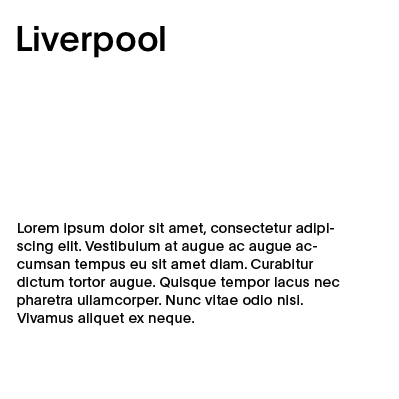
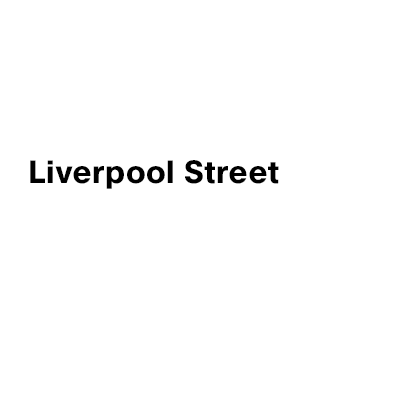
Changed labels and optimized content drawing.

Changed region(s): [[0.0301, 0.5414, 0.8722, 0.812], [0.0602, 0.391, 0.6917, 0.4812], [0.0301, 0.0602, 0.4211, 0.1504]]

diff --git a/cove/src/Content.cpp b/cove/src/Content.cpp
@@ -386,27 +386,22 @@ void Content::draw()
     if (project == 0) {
         // draws text content (text is currently an image)
         ofSetRectMode(OF_RECTMODE_CENTER);
-        if (img[0].isAllocated())
-        {
+        if (item == 0) {
             ofSetColor(255);
             captionTextImage[0].draw(ofGetWidth()/2, ofGetHeight()/2, captionTextImage[0].getWidth() * scale[0], captionTextImage[0].getHeight() * scale[0]);
             img[0].draw(ofGetWidth()/2, ofGetHeight()/2, img[0].getWidth() * scale[0], img[0].getHeight() * scale[0]);
             ofSetColor(255, 255, 255, titleAndCaptionAlpha[0]);
             titleTextImage[0].draw(ofGetWidth()/2, ofGetHeight()/2, titleTextImage[0].getWidth() * scale[0], titleTextImage[0].getHeight() * scale[0]);
-        }
-        
-        // draws image contentw
-        if (img[1].isAllocated())
-        {
+        } else if (item == 1) {
+            // draws image contentw
             ofSetColor(255);
             captionTextImage[1].draw(ofGetWidth()/2, ofGetHeight()/2, captionTextImage[1].getWidth() * scale[1], captionTextImage[1].getHeight() * scale[1]);
             img[1].draw(ofGetWidth()/2, ofGetHeight()/2, img[1].getWidth() * scale[1], img[1].getHeight() * scale[1]);
             ofSetColor(255, 255, 255, titleAndCaptionAlpha[1]);
             titleTextImage[1].draw(ofGetWidth()/2, ofGetHeight()/2, titleTextImage[1].getWidth() * scale[1], titleTextImage[1].getHeight() * scale[1]);
 
-        }
-    
-        // draws video content
+        } else if(item == 2) {
+            // draws video content
             for (int i = 0; i < 5; i++)
             {
                 // hs1 project video content
@@ -421,27 +416,15 @@ void Content::draw()
                     playhead.draw(ofGetWidth()/2, ofGetHeight()/2 + vid[0][i].getHeight()/2 + 5, vid[0][i].getWidth() * scale[2], 10 * scale[2], percentDone);
                     
                 }
-                
-                // crossrail project video content
-                if (vid[1][i].isPlaying())
-                {
-                    ofSetColor(255);
-                    captionTextImage[2].draw(ofGetWidth()/2, ofGetHeight()/2, captionTextImage[2].getWidth() * scale[2], captionTextImage[2].getHeight() * scale[2]);
-                    vid[1][i].draw(ofGetWidth()/2, ofGetHeight()/2, vid[1][i].getWidth() * scale[2], vid[1][i].getHeight() * scale[2]);
-                    ofSetColor(255, 255, 255, titleAndCaptionAlpha[2]);
-                    titleTextImage[2].draw(ofGetWidth()/2, ofGetHeight()/2, titleTextImage[2].getWidth() * scale[2], titleTextImage[2].getHeight() * scale[2]);
-                    float percentDone = vid[1][i].getPosition();
-                    playhead.draw(ofGetWidth()/2, ofGetHeight()/2 + vid[1][i].getHeight()/2 + 5, vid[1][i].getWidth() * scale[2], 10 * scale[2], percentDone);
-                }
             }
-        
+        } else if(item == 3) {
             ofPushStyle();
             ofSetColor(255);
             captionTextImage[3].draw(ofGetWidth()/2, ofGetHeight()/2, captionTextImage[3].getWidth() * scale[3], captionTextImage[3].getHeight() * scale[3]);
             ofSetColor(255, 255, 255, titleAndCaptionAlpha[3]);
             titleTextImage[3].draw(ofGetWidth()/2, ofGetHeight()/2, titleTextImage[3].getWidth() * scale[3], titleTextImage[3].getHeight() * scale[3]);
             ofPopStyle();
-        
+            
             // model drawing
             // rotate on y axis
             cam.pan(camPam);
@@ -457,42 +440,38 @@ void Content::draw()
             ofDisableLighting();
             cam.end();
             ofDisableDepthTest();
-    
-        //Plays audio content with play-head
-        for(int i = 0; i < 5; i++) {
-            if(sound[0][i].isPlaying()) {
-                ofSetColor(255);
-                captionTextImage[4].draw(ofGetWidth()/2, ofGetHeight()/2, captionTextImage[4].getWidth() * scale[4], captionTextImage[4].getHeight() * scale[4]);
-                ofSetColor(255, 255, 255, titleAndCaptionAlpha[4]);
-                titleTextImage[4].draw(ofGetWidth()/2, ofGetHeight()/2, titleTextImage[4].getWidth() * scale[4], titleTextImage[4].getHeight() * scale[4]);
-                //draw the playhead
-                float percentageDone = sound[0][i].getPosition();
-                playhead.draw(ofGetWidth()/2, ofGetHeight()/2 - 19, 909 * scale[4], 30 * scale[4], percentageDone);
+        } else if(item == 4) {
+            //Plays audio content with play-head
+            for(int i = 0; i < 5; i++) {
+                if(sound[0][i].isPlaying()) {
+                    ofSetColor(255);
+                    captionTextImage[4].draw(ofGetWidth()/2, ofGetHeight()/2, captionTextImage[4].getWidth() * scale[4], captionTextImage[4].getHeight() * scale[4]);
+                    ofSetColor(255, 255, 255, titleAndCaptionAlpha[4]);
+                    titleTextImage[4].draw(ofGetWidth()/2, ofGetHeight()/2, titleTextImage[4].getWidth() * scale[4], titleTextImage[4].getHeight() * scale[4]);
+                    //draw the playhead
+                    float percentageDone = sound[0][i].getPosition();
+                    playhead.draw(ofGetWidth()/2, ofGetHeight()/2 - 19, 909 * scale[4], 30 * scale[4], percentageDone);
+                }
             }
         }
         ofSetRectMode(OF_RECTMODE_CORNER);
     } else {
         // draws text content (text is currently an image)
         ofSetRectMode(OF_RECTMODE_CENTER);
-        if (img[4].isAllocated())
-        {
+        if (item == 4) {
             ofSetColor(255);
             captionTextImage[4].draw(ofGetWidth()/2, ofGetHeight()/2, captionTextImage[4].getWidth() * scale[4], captionTextImage[4].getHeight() * scale[4]);
             img[4].draw(ofGetWidth()/2, ofGetHeight()/2, img[4].getWidth() * scale[4], img[4].getHeight() * scale[4]);
             ofSetColor(255, 255, 255, titleAndCaptionAlpha[4]);
             titleTextImage[4].draw(ofGetWidth()/2, ofGetHeight()/2, titleTextImage[4].getWidth() * scale[4], titleTextImage[4].getHeight() * scale[4]);
-        }
-        
-        // draws image content
-        if (img[3].isAllocated())
-        {
+        } else if (item == 3) {
+            // draws image content
             ofSetColor(255);
             captionTextImage[3].draw(ofGetWidth()/2, ofGetHeight()/2, captionTextImage[3].getWidth() * scale[3], captionTextImage[3].getHeight() * scale[3]);
             img[3].draw(ofGetWidth()/2, ofGetHeight()/2, img[3].getWidth() * scale[3], img[3].getHeight() * scale[3]);
             ofSetColor(255, 255, 255, titleAndCaptionAlpha[3]);
             titleTextImage[3].draw(ofGetWidth()/2, ofGetHeight()/2, titleTextImage[3].getWidth() * scale[3], titleTextImage[3].getHeight() * scale[3]);
-        }
-        
+        } else if(item == 2) {
             // draws video content
             for (int i = 0; i < 5; i++)
             {
@@ -509,14 +488,14 @@ void Content::draw()
                     playhead.draw(ofGetWidth()/2, ofGetHeight()/2 + vid[1][i].getHeight()/2 + 5, vid[1][i].getWidth() + scale[2], 10 * scale[2], percentDone);
                 }
             }
-        
+        } else if(item == 1) {
             ofPushStyle();
             ofSetColor(255);
             captionTextImage[1].draw(ofGetWidth()/2, ofGetHeight()/2, captionTextImage[1].getWidth() * scale[1], captionTextImage[1].getHeight() * scale[1]);
             ofSetColor(255, 255, 255, titleAndCaptionAlpha[1]);
             titleTextImage[1].draw(ofGetWidth()/2, ofGetHeight()/2, titleTextImage[1].getWidth() * scale[1], titleTextImage[1].getHeight() * scale[1]);
             ofPopStyle();
-        
+            
             //Draw the backgroundTile
             ofSetColor(255);
             cam.pan(camPam);
@@ -531,17 +510,18 @@ void Content::draw()
             ofDisableLighting();
             cam.end();
             ofDisableDepthTest();
-        
-        //Plays audio content with play-head
-        for(int i = 0; i < 5; i++) {
-            if(sound[1][i].isPlaying()) {
-                ofSetColor(255);
-                captionTextImage[0].draw(ofGetWidth()/2, ofGetHeight()/2, captionTextImage[0].getWidth() * scale[0], captionTextImage[0].getHeight() * scale[0]);
-                ofSetColor(255, 255, 255, titleAndCaptionAlpha[0]);
-                titleTextImage[0].draw(ofGetWidth()/2, ofGetHeight()/2, titleTextImage[0].getWidth() * scale[0], titleTextImage[0].getHeight() * scale[0]);
-                //draw the playhead
-                float percentageDone = sound[1][i].getPosition();
-                playhead.draw(ofGetWidth()/2, ofGetHeight()/2 - 19, 909 * scale[0], 30 * scale[0], percentageDone);
+        } else if(item == 0) {
+            //Plays audio content with play-head
+            for(int i = 0; i < 5; i++) {
+                if(sound[1][i].isPlaying()) {
+                    ofSetColor(255);
+                    captionTextImage[0].draw(ofGetWidth()/2, ofGetHeight()/2, captionTextImage[0].getWidth() * scale[0], captionTextImage[0].getHeight() * scale[0]);
+                    ofSetColor(255, 255, 255, titleAndCaptionAlpha[0]);
+                    titleTextImage[0].draw(ofGetWidth()/2, ofGetHeight()/2, titleTextImage[0].getWidth() * scale[0], titleTextImage[0].getHeight() * scale[0]);
+                    //draw the playhead
+                    float percentageDone = sound[1][i].getPosition();
+                    playhead.draw(ofGetWidth()/2, ofGetHeight()/2 - 19, 909 * scale[0], 30 * scale[0], percentageDone);
+                }
             }
         }
         ofSetRectMode(OF_RECTMODE_CORNER);

diff --git a/cove/src/Route.cpp b/cove/src/Route.cpp
@@ -98,7 +98,8 @@ void Route::draw(ofCamera& cam) {
     ofPushMatrix();
     {
         ofTranslate(0, 0, 0);
-        ofSetLineWidth(3);
+        float rad = 3.;
+        ofSetLineWidth(rad);
         routeRenderLeft.draw();
         ofSetLineWidth(1);
     }
@@ -115,7 +116,8 @@ void Route::draw(ofCamera& cam) {
     ofPushMatrix();
     {
         ofTranslate(0, 0, 0);
-        ofSetLineWidth(3);
+        float rad = 3.;
+        ofSetLineWidth(rad);
         routeRenderRight.draw();
         ofSetLineWidth(1);
     }
@@ -185,7 +187,18 @@ void Route::loadLeft(string path, ofVec3f posOffset) {
         location.position.set((lon2x(location.getLon()) - posOffset.x), (lat2y(location.getLat()) - posOffset.y));
         // add the oF position of the location to the route polylines
         // route render is just for drawing, don't add the black ones as they're just zoomed out overviews
-        if (location.title == "") routeRenderLeft.addVertex(location.position);
+        if (location.title == "") {
+            routeRenderLeft.addVertex(location.position);
+//            if(i+1 < locationsLeft.size()) {
+//                ofVec2f first = location.position;
+//                ofVec2f second = locationsLeft[i+1].position;
+//                ofVec2f diff = first - second;
+//                diff.rotate(90);
+//                diff.normalize();
+//                diff *= 50000;
+//                routeRenderLeft.addVertex(first + diff);
+//            }
+        }
         // route is the actual route
         routeLeft.addVertex(location.position);
         // route inverse is used to shift the whole mesh along an inverted path so that the camera can stay fixed.
@@ -206,6 +219,8 @@ void Route::loadLeft(string path, ofVec3f posOffset) {
         
         i++;
     }
+    
+    routeRenderLeft = routeRenderLeft.getSmoothed(2);
     
     i = 0;
     float totalLength = routeLeft.getLengthAtIndex(locationsLeft.size()-1);
@@ -275,6 +290,9 @@ void Route::loadRight(string path, ofVec3f posOffset) {
         
         i++;
     }
+    
+    routeRenderRight = routeRenderRight.getSmoothed(2);
+
     
     i = 0;
     float totalLength = routeRight.getLengthAtIndex(locationsRight.size()-1);
@@ -389,12 +407,12 @@ void Route::populateLocationsRight() {
             location.labelImage.load(folderPath + "/labels/" + filename);
             switch(numNamedLocations) {
                 case 0:
-                    location.verticalOffset = 20000;
-                    location.verticalOffsetSaved = 20000;
+                    location.verticalOffset = 15000;
+                    location.verticalOffsetSaved = 15000;
                     break;
                 case 1:
-                    location.verticalOffset = -20000;
-                    location.verticalOffsetSaved = -20000;
+                    location.verticalOffset = -5000;
+                    location.verticalOffsetSaved = -5000;
                     break;
                 case 2:
                     location.verticalOffset = 10000;

diff --git a/cove/src/Location.cpp b/cove/src/Location.cpp
@@ -128,7 +128,7 @@ void Location::draw(ofCamera& cam, float _alpha, float _height)
     ofSetLineWidth(2);
     ofSetColor(255, 255, 255, ofMap(finalAlpha, 0., 1., 0., 255.));
     lineHeight = 1600;
-    ofDrawLine(position.x, position.y, 0, position.x, position.y +height + verticalOffset, 100);
+    ofDrawLine(position.x, position.y, 0, position.x, position.y +height + verticalOffset, 0);
     ofNoFill();
     ofSetCircleResolution(50);
     ofDrawCircle(position.x, position.y, 500);
@@ -143,7 +143,7 @@ void Location::draw(ofCamera& cam, float _alpha, float _height)
     ofEnablePointSprites();
     labelImage.getTexture().bind();
     glBegin(GL_POINTS);
-    glVertex3f(position.x, position.y + height + verticalOffset,  100);
+    glVertex3f(position.x, position.y + height + verticalOffset,  0);
     glNormal3f(size, 0, 0);
     glEnd();
     labelImage.getTexture().unbind();

diff --git a/cove/src/Content.h b/cove/src/Content.h
@@ -55,6 +55,10 @@ public:
     float titleAndCaptionAlpha[5];
     float screenWidth;
     
+    enum CONTENT_TYPE { TEXT, IMAGE, VIDEO, MODEL, AUDIO };
+    
+    int contentType;
+    
     //Object for drawing the audio and video duration
     Playhead playhead;
     
